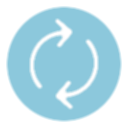
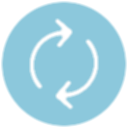
Fixed default color combination

Changed region(s): [[0.0, 0.0, 1.0, 1.0]]

diff --git a/flatui/scroll.py b/flatui/scroll.py
@@ -145,6 +145,11 @@ class RefreshableScrollView( ScrollView ) :
     Angle of rotation per-frame used by the spinner
     ''' 
 
+    spinner_shadow_alpha = NumericProperty( .05 )
+    '''
+    Value of the shadow alpha channel.
+    ''' 
+
     reload_spinner = ObjectProperty( None )
     '''
     Spinner widget reference used internally
@@ -162,6 +167,7 @@ class RefreshableScrollView( ScrollView ) :
             self.reload_spinner = ReloadSpinner( 
                 root_layout=self.root_layout,
                 spinner_image=self.spinner_image,
+                shadow_alpha=self.spinner_shadow_alpha,
                 diameter=self.spinner_diameter,
                 duracy=self.spinner_duracy,
                 speed=self.spinner_speed
@@ -182,6 +188,11 @@ class ReloadSpinner( Widget ) :
     '''
     Set this property to change spinner appearance.
     '''
+
+    shadow_alpha = NumericProperty( .05 )
+    '''
+    Value of the shadow alpha channel.
+    ''' 
 
     root_layout = ObjectProperty( None )
     '''
